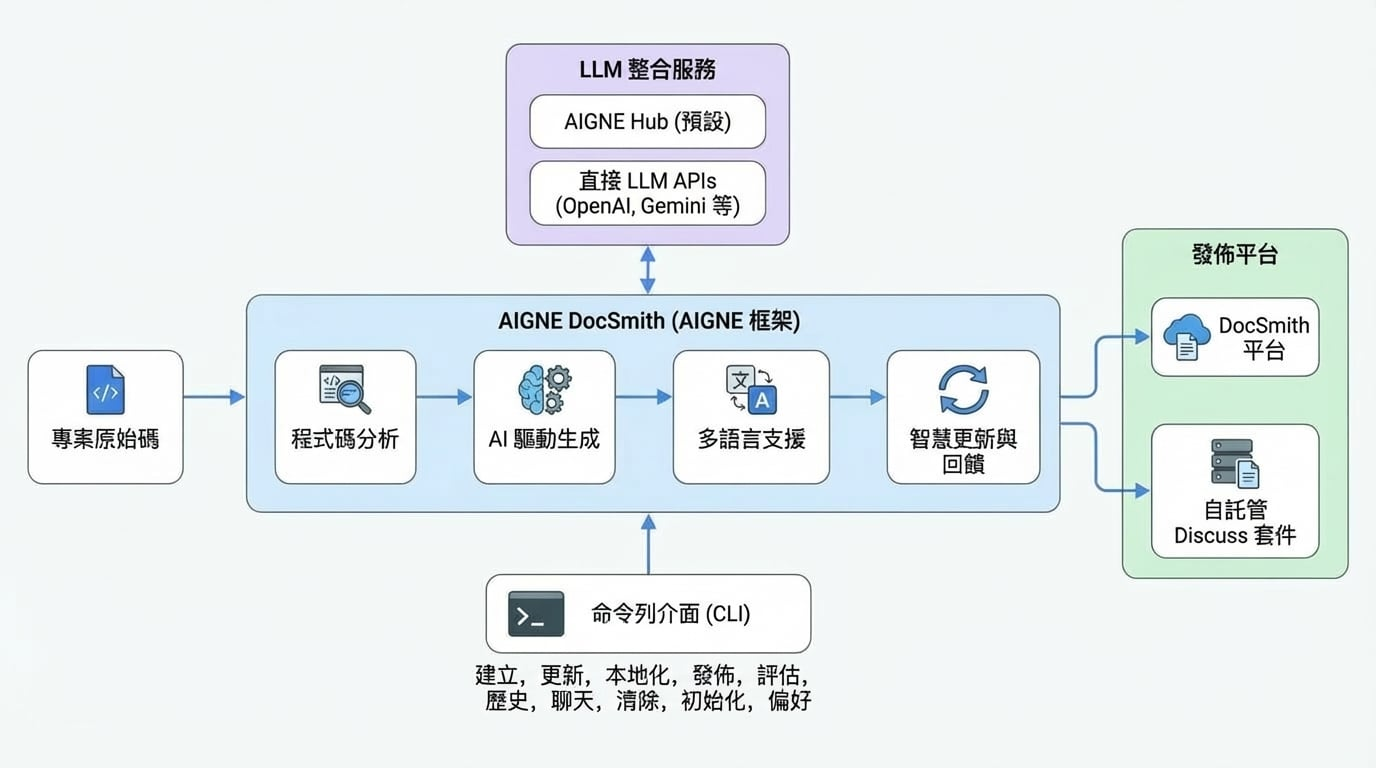
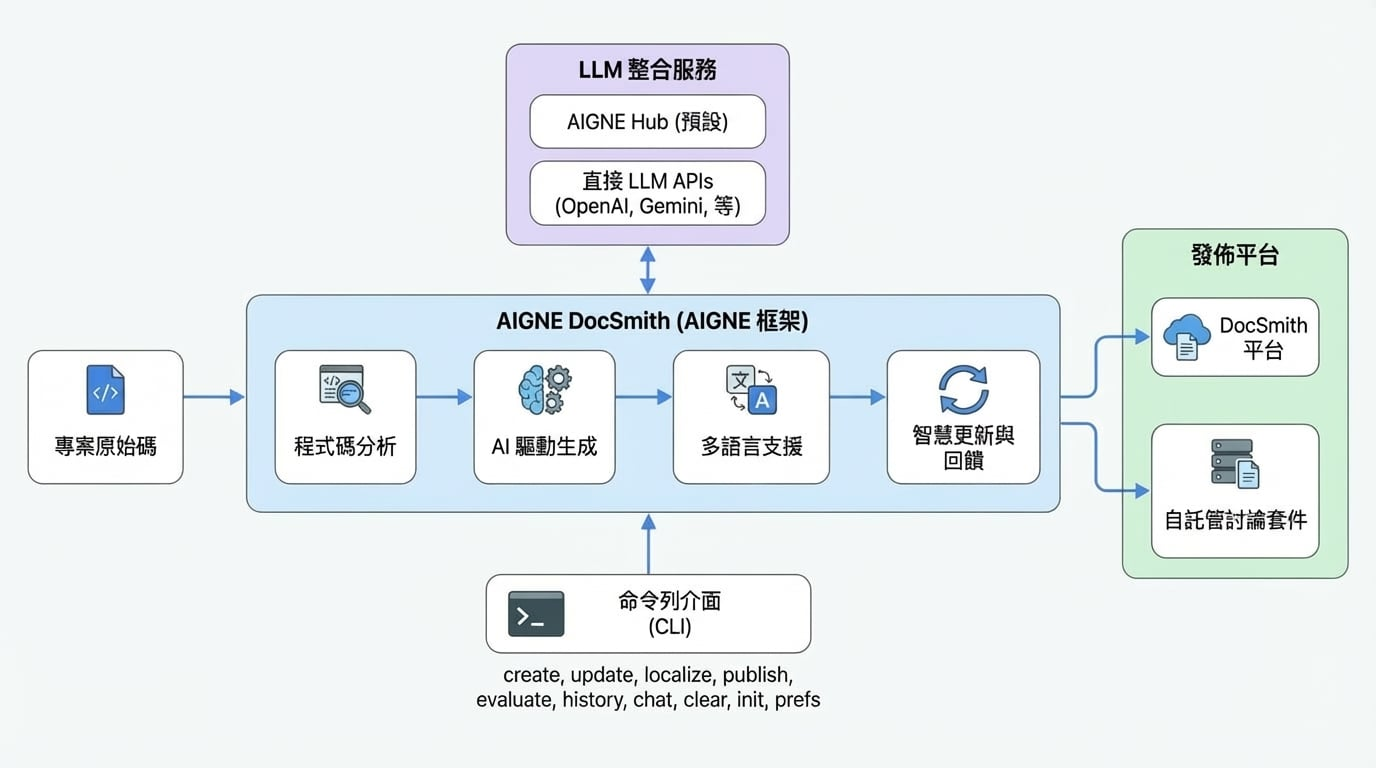
docs: revise overview documentation for clarity and conciseness; update command descriptions and improve language consistency

diff --git a/.aigne/doc-smith/docs/overview.md b/.aigne/doc-smith/docs/overview.md
@@ -1,28 +1,24 @@
 # Overview
 
-Struggling to keep your documents in sync with your ever-changing codebase? AIGNE DocSmith automates the entire process, analyzing your source code to generate accurate, structured, and multi-language documents, so you can focus on building great software.
-
-AIGNE DocSmith is an AI-driven tool that automatically creates documents from your project's source code. It is built on the [AIGNE Framework](https://www.aigne.io/en/framework) and is designed to produce structured, multi-language documents that accurately reflect your codebase.
-
-The tool addresses the common challenges of manual document creation, such as being time-consuming to create, quickly becoming outdated as code evolves, and lacking consistency across different sections. By automating this process, DocSmith helps ensure your documents remain current, accurate, and useful.
+AIGNE DocSmith is a documentation tool that uses AI to analyze your project's source code and generate documentation automatically. Built on the [AIGNE Framework](https://www.aigne.io/en/framework), it produces structured, multi-language documents that are synchronized with your codebase. This process addresses the challenges of manual documentation, which can be time-consuming, prone to becoming outdated, and inconsistent.
 
 ## How It Works
-
-DocSmith operates by analyzing your project's source code to understand its structure, components, and functionality. Based on this analysis, it generates a complete documentation set, from high-level guides to detailed API references.
 
 <!-- DIAGRAM_IMAGE_START:architecture:16:9:1765020134 -->
 ![Overview](assets/diagram/overview-diagram-0.jpg)
 <!-- DIAGRAM_IMAGE_END -->
 
+DocSmith works by analyzing your project's source code to understand its structure and functionality. From this analysis, it generates a complete set of documents, including high-level guides and detailed API references.
+
 ## Core Features
 
 DocSmith provides a set of features to handle the document lifecycle from creation to publication.
 
-*   **AI-Powered Generation**: Analyzes your codebase to propose a logical document structure and generates content that explains your code's functionality.
-*   **Multi-Language Support**: Translates documents into 12 languages, including English, Chinese (Simplified), and Japanese. The translation process is context-aware to maintain technical accuracy.
-*   **Integration with LLMs**: Connects with various Large Language Models (LLMs). By default, it uses [AIGNE Hub](https://www.aigne.io/en/hub), a service that allows you to switch between models like Google Gemini and OpenAI GPT without needing separate API keys. You can also configure your own API keys for direct provider access.
-*   **Smart Updates**: Detects changes in your source code and updates the corresponding sections of your documents. You can also provide specific feedback to refine generated content.
-*   **Publishing Options**: Publish your created documents with a single command. You can deploy to the official DocSmith platform or run your own instance of [Discuss Kit](https://www.web3kit.rocks/discuss-kit). Discuss Kit is a service for hosting and displaying documents.
+- **AI-Powered Generation**: Analyzes the codebase to generate a logical document structure and content that explains the code's functionality.
+- **Multi-Language Support**: Translates documents into 12 languages, such as English, Chinese (Simplified), and Japanese, using context-aware translation to maintain technical accuracy.
+- **LLM Integration**: Connects with multiple Large Language Models (LLMs). It uses [AIGNE Hub](https://www.aigne.io/en/hub) by default, a service for switching between models like Google Gemini and OpenAI GPT without separate API keys. You can also configure your own keys for direct provider access.
+- **Smart Updates**: Detects source code changes and updates the corresponding document sections. You can provide feedback to refine the generated content.
+- **Publishing Options**: Deploys documents with a single command. You can publish to the official DocSmith platform or a self-hosted instance of [Discuss Kit](https://www.web3kit.rocks/discuss-kit), a service for hosting and displaying documents.
 
 ## Available Commands
 
@@ -30,16 +26,18 @@ DocSmith is operated through a command-line interface. The following table provi
 
 | Command | Description |
 | :--- | :--- |
+| `init` | Guides you through an interactive process to create an initial configuration file. |
 | `create` | Creates a new set of documents from your source files. |
+| `add-document` | Adds a new document to the existing structure. |
+| `remove-document` | Removes a document from the existing structure. |
 | `update` | Modifies existing documents based on code changes or new feedback. |
 | `localize` | Translates documents into one or more of the 12 supported languages. |
 | `publish` | Deploys your documents to a live, accessible URL. |
 | `evaluate` | Assesses the quality and completeness of your created documents. |
 | `history` | Views the history of updates made to your documents. |
 | `chat` | Starts an interactive mode session to generate and manage documents. |
-| `clear` | Removes created files, configurations, and cached data. |
-| `init` | Guides you through an interactive process to create an initial configuration file. |
 | `prefs` | Manages saved preferences and configurations for document creation. |
+| `clear` | Removes created files, configurations, and cached data. |
 
 ---
 
